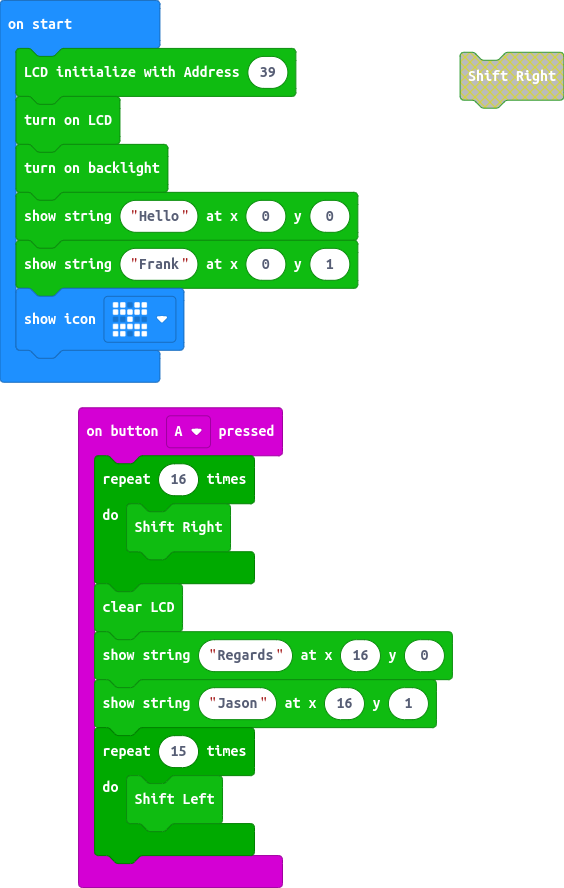
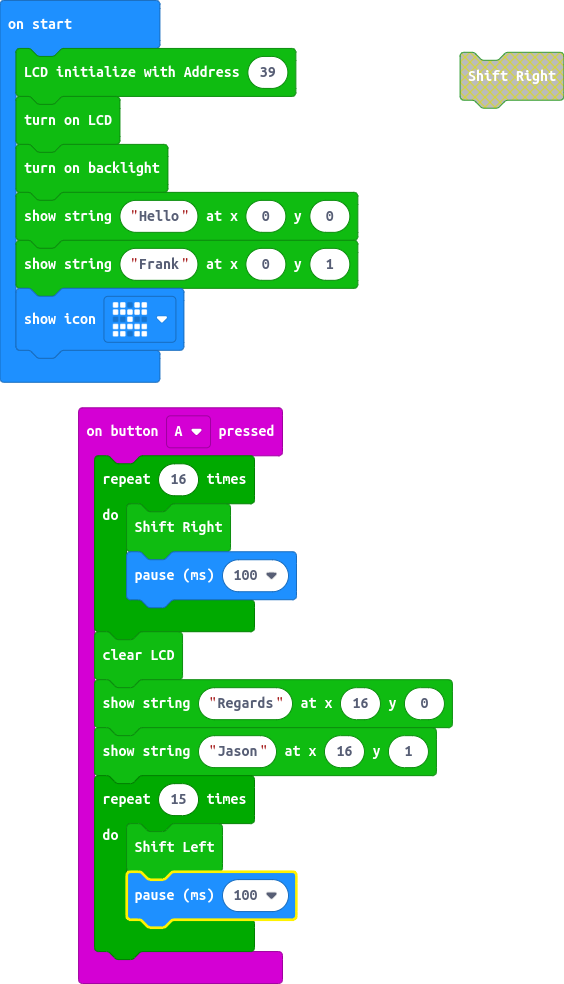
Update main.blocks, main.ts

diff --git a/main.ts b/main.ts
@@ -1,12 +1,14 @@
 input.onButtonPressed(Button.A, function () {
     for (let index = 0; index < 16; index++) {
         I2C_LCD1602.shr()
+        basic.pause(100)
     }
     I2C_LCD1602.clear()
     I2C_LCD1602.ShowString("Regards", 16, 0)
     I2C_LCD1602.ShowString("Jason", 16, 1)
     for (let index = 0; index < 15; index++) {
         I2C_LCD1602.shl()
+        basic.pause(100)
     }
 })
 I2C_LCD1602.LcdInit(39)
